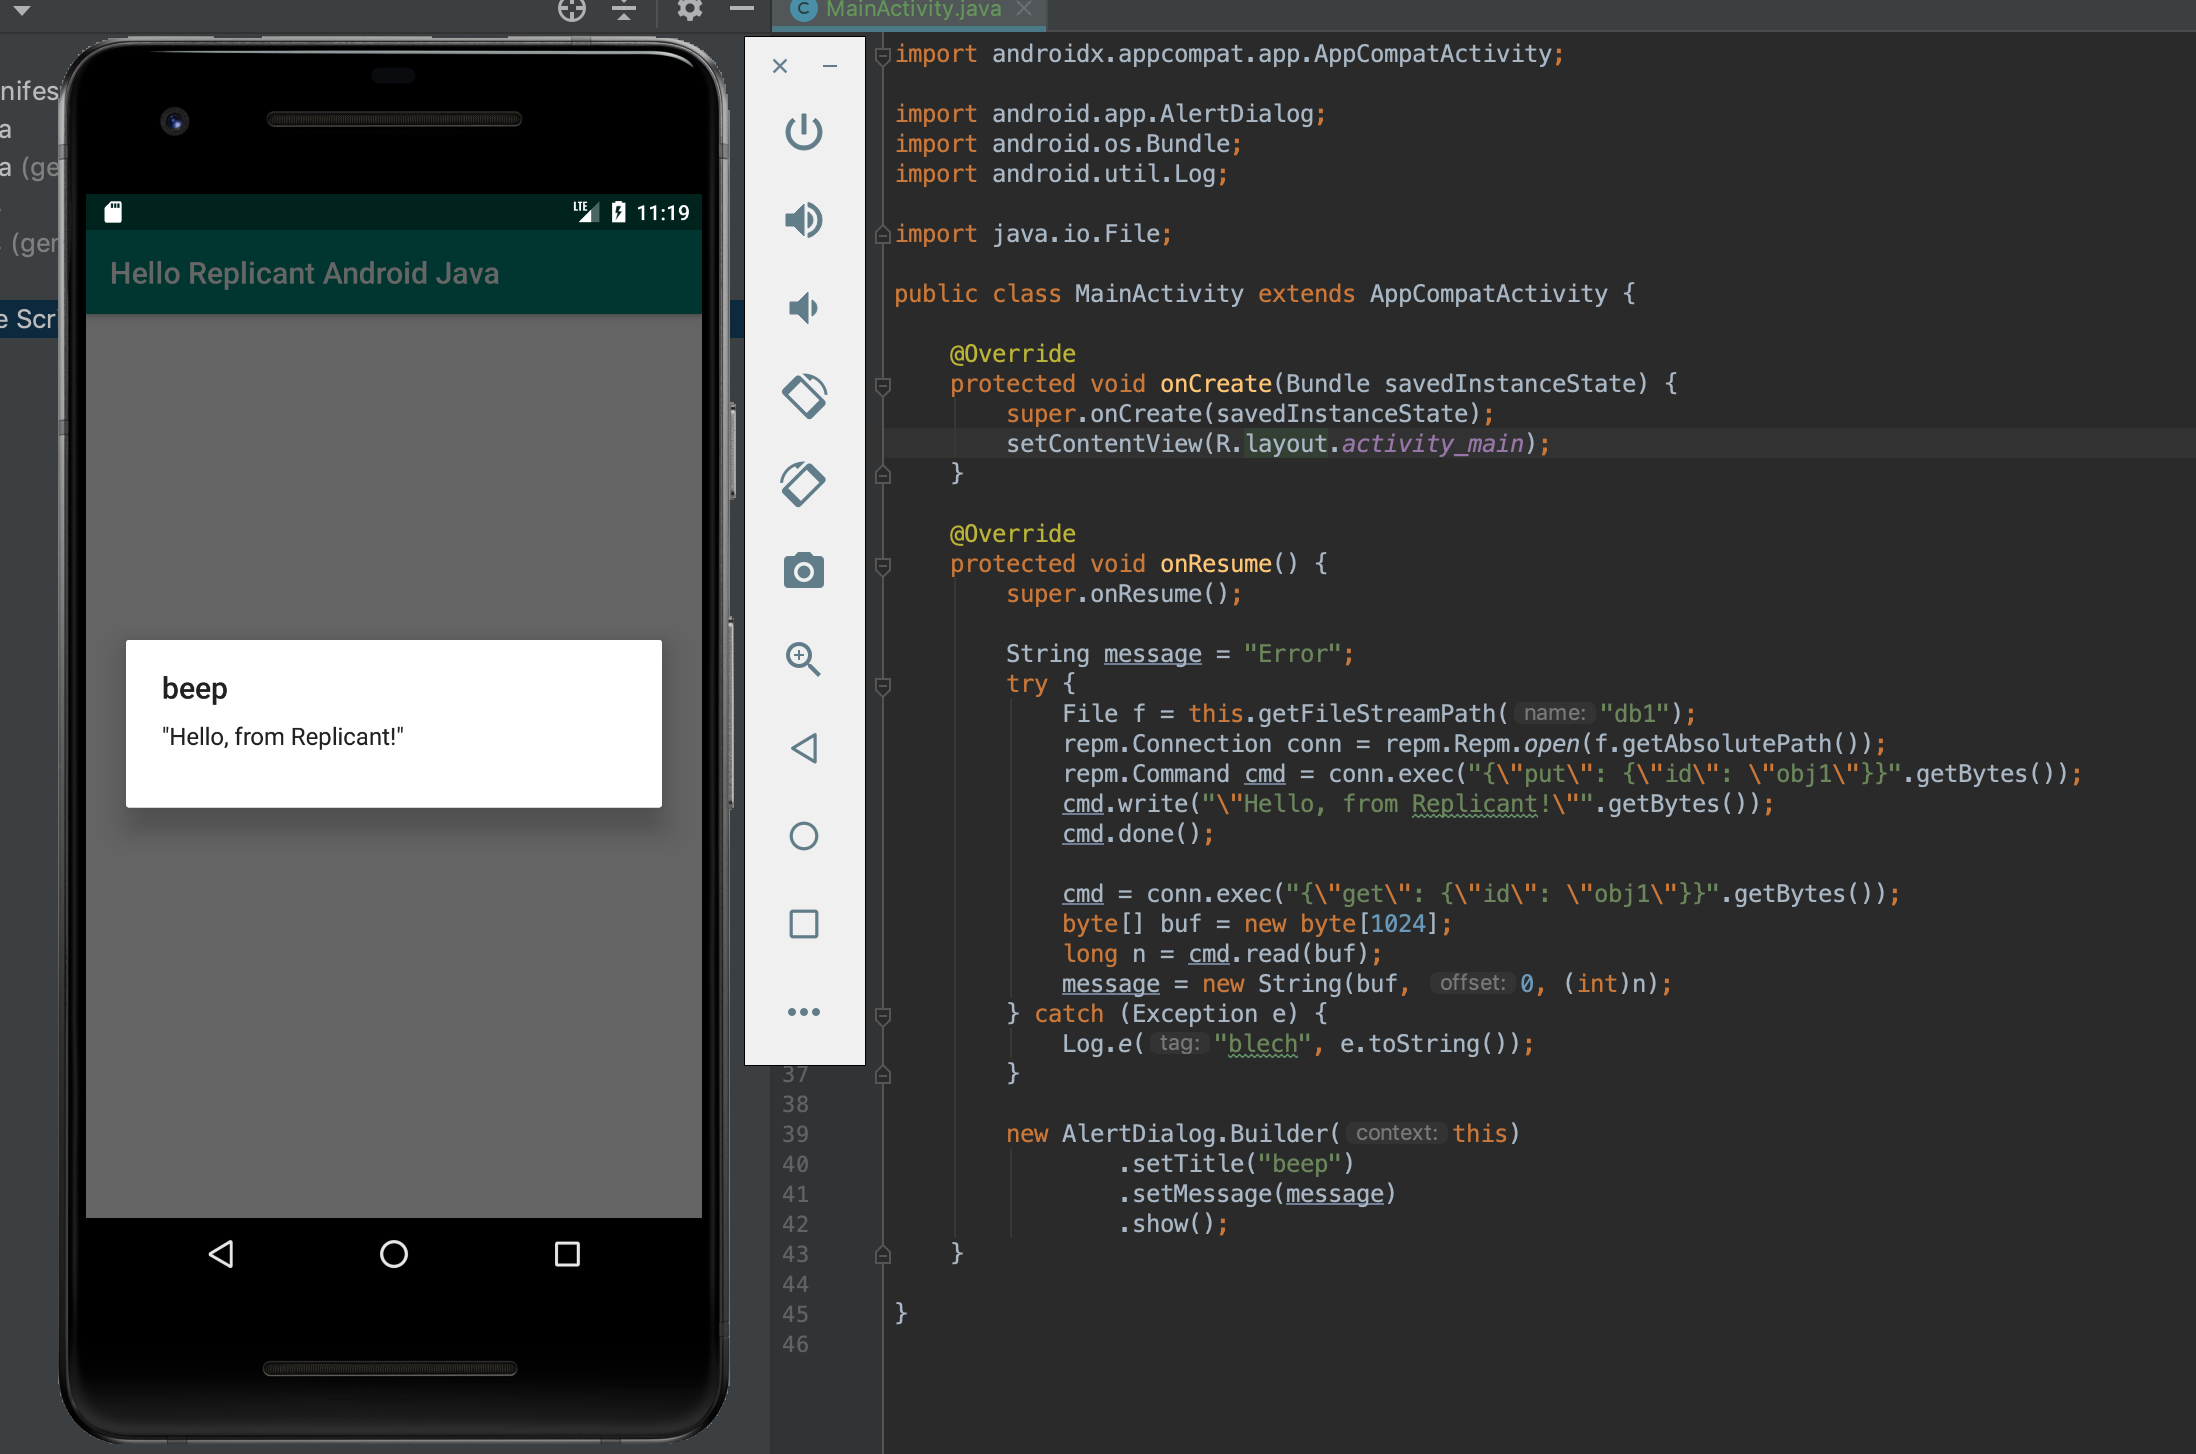
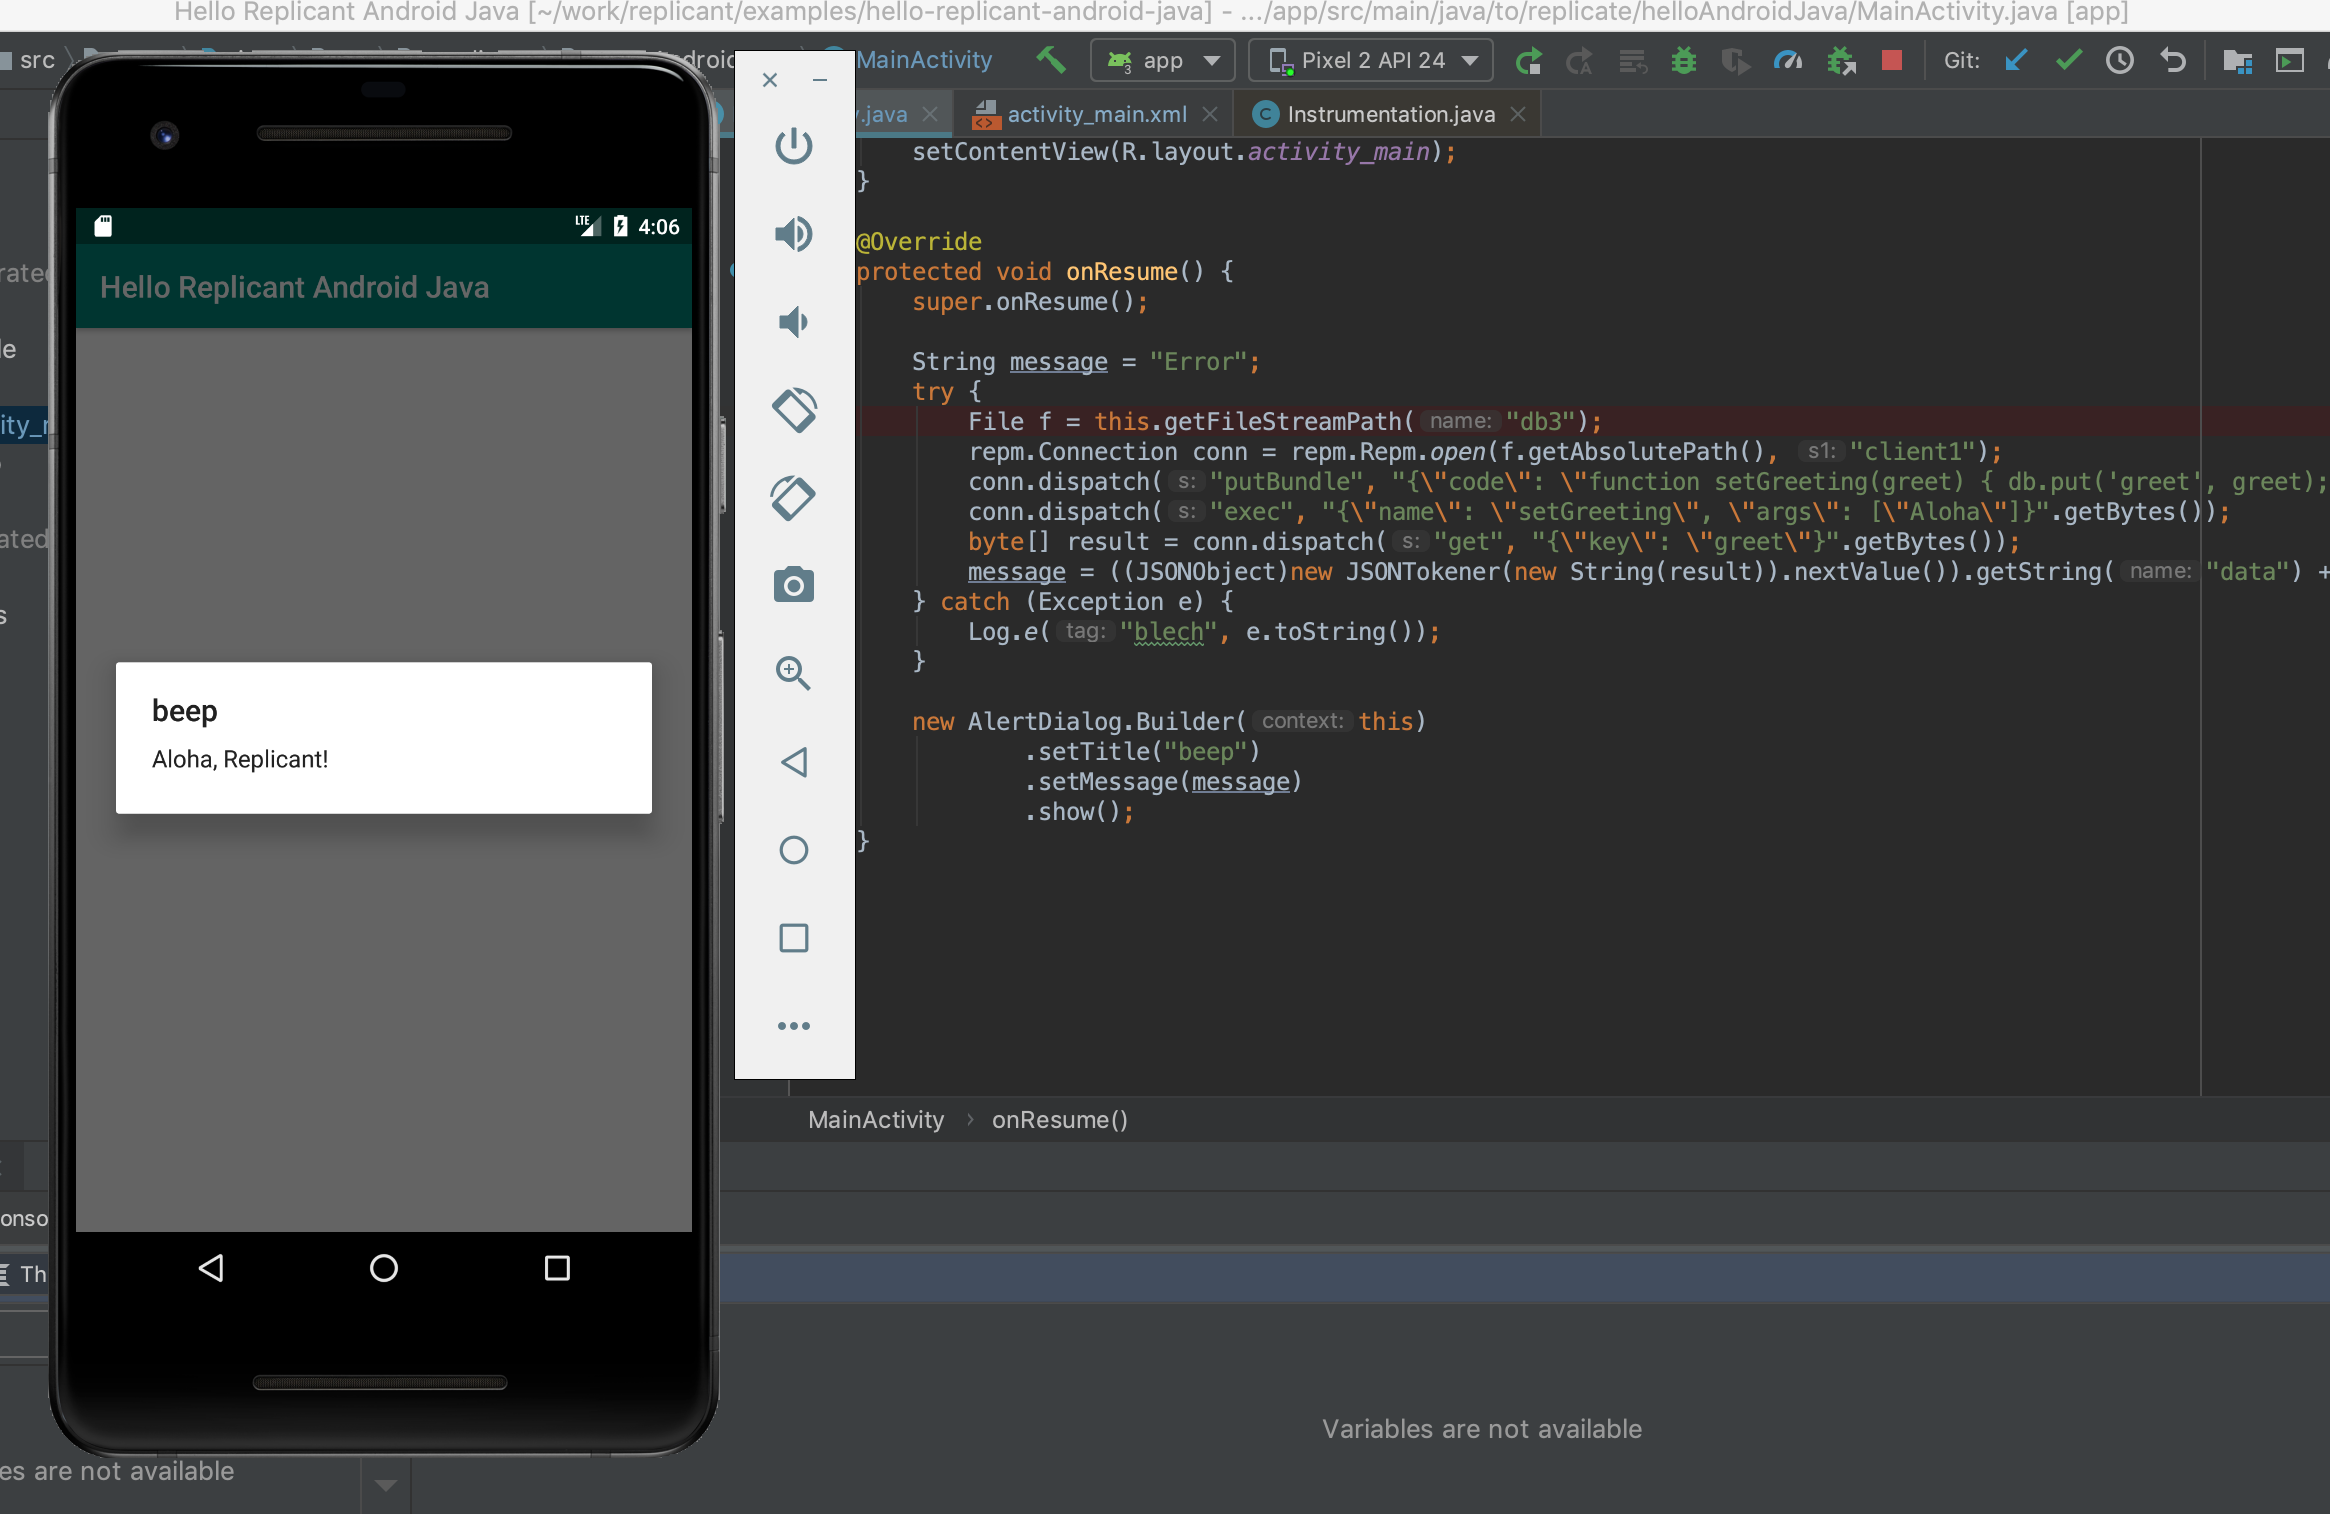
Android example working again

diff --git a/examples/hello-replicant-android-java/app/src/main/java/to/replicate/helloAndroidJava/MainActivity.java b/examples/hello-replicant-android-java/app/src/main/java/to/replicate/helloAndroidJava/MainActivity.java
@@ -6,6 +6,7 @@ import android.app.AlertDialog;
 import android.os.Bundle;
 import android.util.Log;
 
+import org.json.JSONObject;
 import org.json.JSONTokener;
 
 import java.io.File;
@@ -24,19 +25,12 @@ public class MainActivity extends AppCompatActivity {
 
         String message = "Error";
         try {
-            File f = this.getFileStreamPath("db2");
-            repm.Connection conn = repm.Repm.open(f.getAbsolutePath());
-            repm.Command cmd = conn.exec("code/put", null);
-            cmd.write("function setGreeting(greet) { db.put('greet', greet); }".getBytes());
-            cmd.done();
-
-            cmd = conn.exec("code/run", "{\"Name\": \"setGreeting\", \"Args\": [\"Aloha\"]}".getBytes());
-            cmd.done();
-
-            cmd = conn.exec("data/get", "{\"ID\": \"greet\"}".getBytes());
-            byte[] buf = new byte[1024];
-            long n = cmd.read(buf);
-            message = (String)new JSONTokener(new String(buf, 0, (int)n)).nextValue() + ", Replicant!";
+            File f = this.getFileStreamPath("db3");
+            repm.Connection conn = repm.Repm.open(f.getAbsolutePath(), "client1");
+            conn.dispatch("putBundle", "{\"code\": \"function setGreeting(greet) { db.put('greet', greet); }\"}".getBytes());
+            conn.dispatch("exec", "{\"name\": \"setGreeting\", \"args\": [\"Aloha\"]}".getBytes());
+            byte[] result = conn.dispatch("get", "{\"key\": \"greet\"}".getBytes());
+            message = ((JSONObject)new JSONTokener(new String(result)).nextValue()).getString("data") + ", Replicant!";
         } catch (Exception e) {
             Log.e("blech", e.toString());
         }

diff --git a/repm/README.md b/repm/README.md
@@ -1,6 +1,6 @@
 This is a simple mobile API to Replicant using [Gomobile](https://godoc.org/golang.org/x/mobile/cmd/gomobile).
 
-Ideally we would use straight C for the API, [but](../repc/MOBILE_COMPLE_ARGH.md).
+Ideally we would use straight C for the API, but that turned out to be super difficult and I gave up.
 
 Build (from Replicant source dir in non-GOPATH):
 
